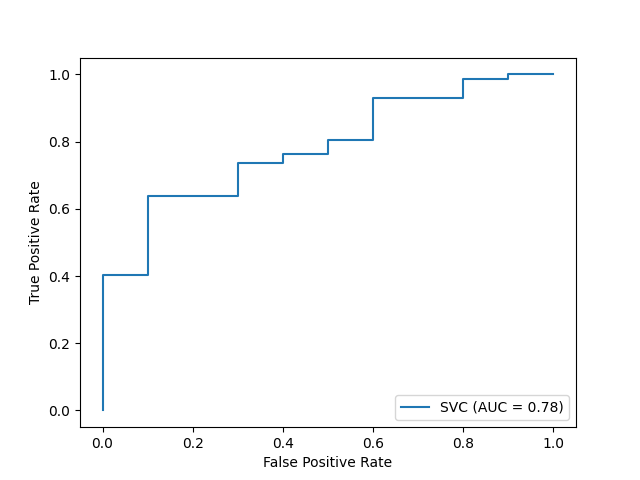
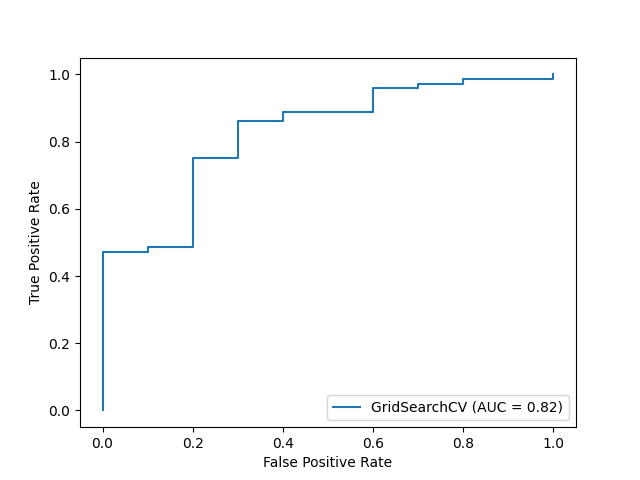
Added experiments with hyper-parameter tuning in SVM

diff --git a/src/crforest.py b/src/crforest.py
@@ -4,10 +4,11 @@ import numpy as np
 from sklearn.preprocessing import StandardScaler
 from sklearn.ensemble import RandomForestClassifier
 from sklearn.metrics import classification_report, confusion_matrix, roc_auc_score, accuracy_score
+from sklearn.model_selection import RandomizedSearchCV
+from sklearn.model_selection import GridSearchCV
 
 from smote import smote_sampling
 from plot import plot_auc
-from parameters_tuning import parameters_tuner
 
 
 def crforest_loan(train_dataset, test_dataset, eval_dataset, selected_features):
@@ -61,3 +62,60 @@ def crforest_loan(train_dataset, test_dataset, eval_dataset, selected_features):
     })
 
     return result
+
+
+def random_tuner(X_train, y_train):
+    # Number of trees in random forest
+    n_estimators = [int(x) for x in np.linspace(start=200, stop=2000, num=10)]
+    # Number of features to consider at every split
+    max_features = ['auto', 'sqrt']
+    # Maximum number of levels in tree
+    max_depth = [int(x) for x in np.linspace(10, 110, num=11)]
+    max_depth.append(None)
+    # Minimum number of samples required to split a node
+    min_samples_split = [2, 5, 10]
+    # Minimum number of samples required at each leaf node
+    min_samples_leaf = [1, 2, 4]
+    # Method of selecting samples for training each tree
+    bootstrap = [True, False]
+    # Create the random grid
+    random_grid = {'n_estimators': n_estimators,
+                   'max_features': max_features,
+                   'max_depth': max_depth,
+                   'min_samples_split': min_samples_split,
+                   'min_samples_leaf': min_samples_leaf,
+                   'bootstrap': bootstrap}
+
+    rf = RandomForestClassifier(max_depth=2, random_state=0)
+    rf_random = RandomizedSearchCV(estimator=rf, param_distributions=random_grid,
+                                   n_iter=100, cv=3, verbose=2, random_state=42, n_jobs=-1)
+
+    # Fit the random search model
+    rf_random.fit(X_train, y_train)
+
+    return rf_random.best_params_
+
+
+def search_tuner(X_train, y_train, random_params):
+    # Create a based model
+    rf = RandomForestClassifier()
+    # Instantiate the grid search model
+    grid_search = GridSearchCV(estimator=rf, param_grid=random_params,
+                               cv=3, n_jobs=-1, verbose=2)
+
+    grid_search.fit(X_train, y_train)
+
+    return grid_search
+
+
+def parameters_tuner(X_train, y_train):
+    #random_params = random_tuner(X_train, y_train)
+    random_params = {
+        'bootstrap': [True],
+        'max_depth': [20, 80, 90, 100, 110],
+        'max_features': ['sqrt'],
+        'min_samples_leaf': [1, 2, 3],
+        'min_samples_split': [8, 10, 12],
+        'n_estimators': [1600, 1700, 1800, 1900]
+    }
+    return search_tuner(X_train, y_train, random_params)

diff --git a/src/svm.py b/src/svm.py
@@ -4,6 +4,8 @@ import numpy as np
 from sklearn.preprocessing import StandardScaler
 from sklearn.svm import SVC
 from sklearn.metrics import classification_report, confusion_matrix, roc_auc_score, accuracy_score
+from sklearn.model_selection import RandomizedSearchCV
+from sklearn.model_selection import GridSearchCV
 
 from smote import smote_sampling
 from plot import plot_auc
@@ -31,8 +33,9 @@ def svm_loan(train_dataset, test_dataset, eval_dataset, selected_features):
     X_train = scaler.transform(X_train)
     X_test = scaler.transform(X_test)
 
-    svclassifier = SVC(gamma='auto')
-    svclassifier.fit(X_train, y_train)
+    #svclassifier = SVC(gamma='auto')
+    #svclassifier.fit(X_train, y_train)
+    svclassifier = parameters_tuner(X_train, y_train)
 
     y_pred = svclassifier.predict(X_test)
 
@@ -59,3 +62,36 @@ def svm_loan(train_dataset, test_dataset, eval_dataset, selected_features):
     })
 
     return result
+
+
+def random_tuner(X_train, y_train):
+    param_grid = {'C': [0.1, 1, 10, 100], 'gamma': [
+        1, 0.1, 0.01, 0.001], 'kernel': ['rbf', 'poly', 'sigmoid']}
+
+    svc_random = RandomizedSearchCV(SVC(), param_grid, refit=True, verbose=2)
+
+    # Fit the random search model
+    svc_random.fit(X_train, y_train)
+
+    print(svc_random.best_params_)
+
+    return svc_random
+
+
+def search_tuner(X_train, y_train, param_grid):
+    grid_search = GridSearchCV(SVC(), param_grid, refit=True, verbose=2)
+
+    grid_search.fit(X_train, y_train)
+
+    return grid_search
+
+
+def parameters_tuner(X_train, y_train):
+    # return random_tuner(X_train, y_train)
+
+    param_grid = {
+        'kernel': ['rbf', 'sigmoid'],
+        'gamma': [0.01, 1, 0.1, 0.001],
+        'C': [100, 0.1, 1, 10]
+    }
+    return search_tuner(X_train, y_train, param_grid)
